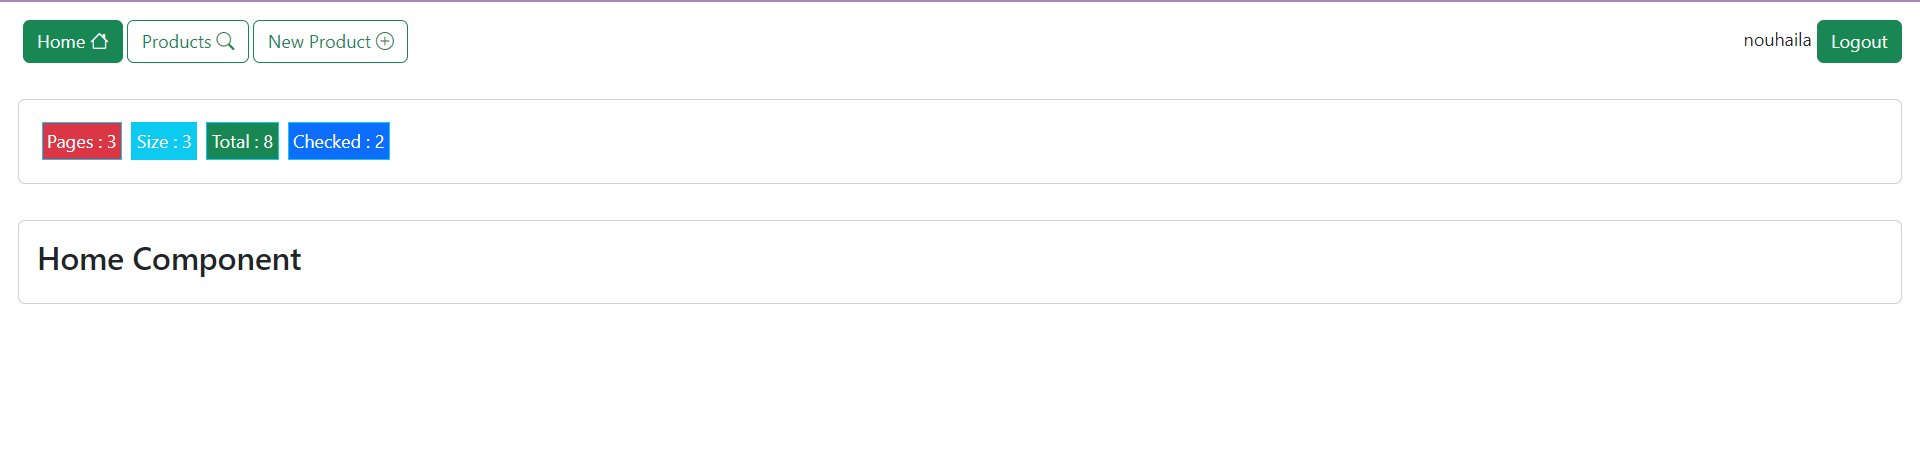
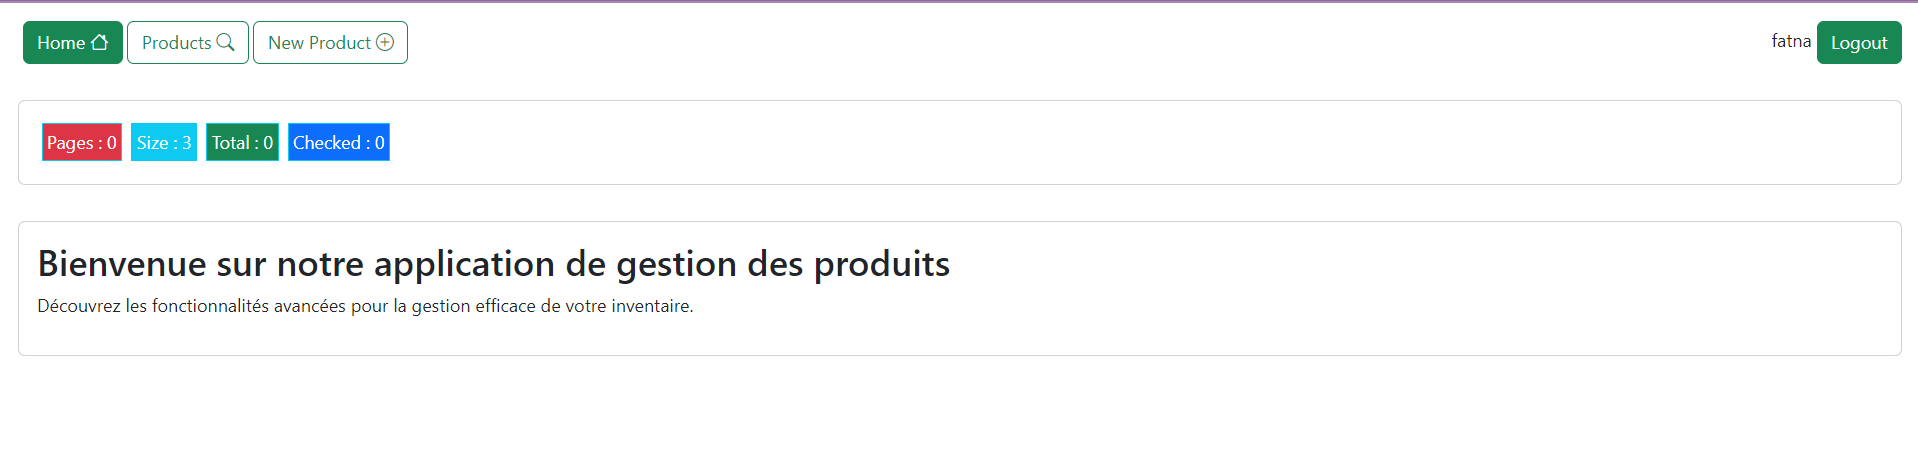
commit

diff --git a/src/app/home/home.component.html b/src/app/home/home.component.html
@@ -1,7 +1,9 @@
 <div class="p-3">
   <div class="card">
     <div class="card-body">
-      <h3>Home Component</h3>
+      <h2>Bienvenue sur notre application de gestion des produits</h2>
+      <p>Découvrez les fonctionnalités avancées pour la gestion efficace de votre inventaire.</p>
     </div>
   </div>
 </div>
+

diff --git a/README.md b/README.md
@@ -1,32 +1,243 @@
-<img src="angular/firstapp.png">
+Réalisé par : DANOUNI Nouhaila ---------------------------------------------------------------------------------------------------------</p>
 
-<img src="angular/boot_boot-icons.png">
-<p></p>
-<img src="angular/boot_css.png">
-<p></p>
-<img src="angular/boot_icons.png">
-<p></p>
-<img src="angular/json-server.png">
-<img src="angular/jsnserver.png">
-<img src="angular/run_json.png">
-<img src="angular/jsonproducts.png">
+<h1>TP N°5 : Utilisation d'Angular pour la Gestion des Produits - Rapport
+</h1>
+<h2>Introduction</h2>
+Dans ce rapport, nous exposons le processus de création d'une application dédiée à la gestion des produits, exploitant le framework Angular. L'essence de cette application demeure la mise à disposition d'une interface utilisateur contemporaine et réactive, simplifiant l'accès, la recherche, la modification et la suppression des produits. De plus, nous aborderons également la mise en place des mécanismes d'authentification et d'autorisation pour garantir des droits d'accès appropriés, renforçant ainsi la sécurité et la confidentialité au sein du système.
+<h2>Exploration d'Angular</h2>
+Cette application marque notre entrée dans l'univers d'Angular, et nous saisissons cette opportunité pour plonger dans les concepts fondamentaux, tels que les composants, les services, la gestion de l'état, et les gardiens de routage. Nous allons également explorer la façon dont Angular facilite la création d'une interface utilisateur réactive et dynamique, tout en optimisant la structure et la maintenance du code.
+<h2>Pourquoi Angular ?</h2>
+Angular a été sélectionné pour ce projet en raison de sa robustesse dans le développement d'applications web, offrant une structure modulaire, une liaison de données bidirectionnelle, et une architecture de type composant. Ces caractéristiques favorisent la création d'une application évolutive, facile à maintenir, et offrant une expérience utilisateur réactive. La documentation complète et la communauté active d'Angular ont également été des facteurs décisifs dans ce choix.
+<h2>Objectifs</h2>
+<p>Créer une application web basée sur Angular dédiée à la gestion des produits. Chaque produit est caractérisé par son identifiant, son nom, son prix et son status de check (checked or not). Le backend de l'application repose sur une REST API construite avec Json-Server.</p>
 
-<img src="angular/pas_localhost.png">
-<img src="angular/changePortError.png">
-encoder les mots de passe
-<img src="angular/jwt-decode.png">
-<img src="angular/jwt-decode.png">
+<p>L'application doit fournir les fonctionnalités suivantes :</p>
 
-<img src="angular/login.png">
-<img src="angular/home.png">
-<img src="angular/products.png">
-<img src="angular/new.png">
-<img src="angular/edit.png">
-utiliser les guards pour protéger les routes
+<ul>
+    <li>Afficher les produits</li>
+    <li>Chercher les produits</li>
+    <li>Faire la pagination</li>
+    <li>Supprimer un produit</li>
+    <li>Éditer un produit</li>
+    <li>Mettre à jour un produit</li>
+    <li>Faire l'authentification et protéger les routes</li>
+</ul>
+
+<h2>Architecture de l'Application</h2>
+<p>
+L'architecture de l'application Angular est structurée de manière modulaire, comprenant divers composants, services et guards.</p>
+<img src="angular/arch.png">
+<h3>1. Composants Principaux</h3>
+<pre>
+// Générer un Composant
+ng g c nom-composant
+</pre>
+<ul>
+    <li><strong>NavbarComponent :</strong> La barre de navigation contenant des liens vers différentes sections de
+        l'application et des actions utilisateur telles que la connexion et la déconnexion.</li>
+    <li><strong>ProductsComponent :</strong> Affiche la liste paginée des produits avec des fonctionnalités de recherche,
+        suppression, édition et mise à jour.</li>
+    <li><strong>NewProductComponent :</strong> Permet à l'utilisateur d'ajouter un nouveau produit à la liste.</li>
+    <li><strong>EditProductComponent :</strong> Fournit un formulaire d'édition pour mettre à jour les détails d'un produit
+        existant.</li>
+    <li><strong>LoginComponent :</strong> Gère le processus d'authentification de l'utilisateur.</li>
+</ul>
+
+<h3>2. Services</h3>
+<pre>
+// Générer un service
+ng g s nom-service
+</pre>
+<ul>
+    <li><strong>AppStateService :</strong> Gère l'état global de l'application, stockant des informations sur les produits
+        et l'état d'authentification.</li>
+    <li><strong>AuthService :</strong> Gère l'authentification des utilisateurs en vérifiant les informations
+        d'identification et en stockant l'état d'authentification.</li>
+    <li><strong>ProductService :</strong> Interagit avec la REST API pour effectuer des opérations liées aux produits
+        telles que la récupération, la création, la mise à jour et la suppression.</li>
+    <li><strong>LoadingService :</strong> Gère l'affichage d'un indicateur de chargement pour informer l'utilisateur lors
+        du chargement de données.</li>
+</ul>
+
+<h3>3. Guards</h3>
+<pre>
+// Générer un Guard
+ng g g nom-guard
+</pre>
 <img src="angular/guards.png">
 <img src="angular/two_guards.png">
+<ul>
+    <li><strong>AuthenticationGuard :</strong> Protège les routes nécessitant une authentification. Redirige les
+        utilisateurs non authentifiés vers la page de connexion.</li>
+    <li><strong>AuthorizationGuard :</strong> Protège les routes en fonction des rôles de l'utilisateur. Redirige les
+        utilisateurs non autorisés vers une page indiquant qu'ils ne sont pas autorisés.</li>
+</ul>
 <img src="angular/use_guards.png">
+
+<h3>4. Interceptor</h3>
+<pre>
+// Générer un intercepteur
+ng g interceptor nom-intercepteur
+</pre>
+<ul>
+    <li><strong>AppHttpInterceptor :</strong> Intercepte les requêtes HTTP pour ajouter un en-tête d'autorisation avant
+        qu'elles ne soient envoyées au serveur. Il gère également l'affichage d'un indicateur de chargement pendant les
+        requêtes.</li>
+</ul>
+
+<h2>Data Binding dans l'Application Angular</h2>
+<p>
+    L'un des concepts clés exploités dans l'architecture de notre application est le <strong>data binding</strong>. Le data binding
+    d'Angular facilite la synchronisation efficace des données entre les composants et l'interface utilisateur. Nous utilisons
+    deux types principaux de data binding :
+</p>
+
+<ul>
+    <li><strong>Data Binding Unidirectionnel :</strong> Utilisé pour afficher des données du modèle vers l'interface utilisateur. Par exemple, dans le composant
+        <em>ProductsComponent</em>, le data binding unidirectionnel est utilisé pour afficher la liste paginée des produits.</li>
+    <li><strong>Data Binding Bidirectionnel :</strong> Employé pour synchroniser les modifications entre l'interface utilisateur et le modèle. Cela est particulièrement
+        utile dans les composants tels que <em>NewProductComponent</em> et <em>EditProductComponent</em>, où les utilisateurs peuvent saisir
+        et modifier des données.</li>
+</ul>
+
+<p>
+    En utilisant le data binding, notre application parvient à maintenir une cohérence fluide entre les différentes parties,
+    offrant ainsi une expérience utilisateur dynamique et réactive.
+</p>
+<img src="angular/data_binding.png">
+
+<h2>Observables dans l'Application Angular</h2>
+<p>
+    L'utilisation d'observables joue un rôle essentiel dans notre application Angular, offrant une manière puissante de gérer
+    les flux de données asynchrones. Les observables sont employés dans divers aspects de l'application, notamment pour gérer
+    les réponses des requêtes HTTP vers le backend de l'API REST et pour mettre en œuvre des fonctionnalités réactives telles
+    que la mise à jour dynamique de l'interface utilisateur en temps réel.
+</p>
+
+<p>
+    En exploitant les observables, notre application assure une gestion efficace des événements asynchrones, améliorant ainsi
+    la réactivité globale et offrant une expérience utilisateur plus fluide.
+</p>
+<img src="angular/observable.png">
+<h2>Fonctionnalités</h2>
+
+<h3>1. Intégrer Bootstrap dans le projet</h3>
+<img src="angular/boot_css.png">
+<img src="angular/boot_icons.png">
+<h3>2. Affichage des données statiques</h3>
+<p>Dans une première phase, les données sont présentées à l'aide d'une base de données statique, affichée sous forme de tableau.</p>
+<img src="angular/table_db_statique.PNG" alt="Capture de la table de la base de données statique">
+
+<h3>3. Intégration d'Angular avec une REST API basée sur Json-Server</h3>
+
+<p>L'intégration d'une REST API pour notre application Angular est simplifiée grâce à l'utilisation de JSON Server.</p>
+
+<h4>3.1 Installation de JSON Server</h4>
+<p>Tout d'abord, nous devons nous assurer d'avoir JSON Server installé globalement en exécutant la commande suivante dans le terminal :</p>
+<pre><code>npm install -g json-server</code></pre>
+<img src="angular/json-server.png">
+<img src="angular/jsnserver.png">
+
+<h4>3.2 Création du fichier de données (db.json)</h4>
+<p>Ensuite, nous créons un fichier de données nommé <strong>db.json</strong> contenant les informations sur nos produits ou d'autres données nécessaires. Nous plaçons ce fichier dans un dossier appelé <strong>data</strong>.</p>
+<pre><code>// db.json
+{
+    "products": [
+        // ... données des produits
+    ],
+    "users": [
+        // ... données des utilisateurs
+    ]
+}</code></pre>
+<img src="angular/products.png">
+<img src="angular/users.png">
+
+<h4>3.3 Lancement de JSON Server</h4>
+<p>Utilisons la commande suivante pour lancer JSON Server en spécifiant le chemin vers notre fichier <strong>db.json</strong> et le port (8089) :</p>
+<pre><code>json-server -w data/db.json -p 8089</code></pre>
+<img src="angular/run_json.png">
+or
+<pre><code>json-server -w data/db.json -p 8089 -H 0.0.0.0</code></pre>
+<img src="angular/pas_localhost.png">
+<ul>
+<li>L'ajout de l'option -H 0.0.0.0 permet au serveur JSON d'écouter sur toutes les interfaces réseau disponibles. Cela signifie que le serveur JSON peut être accédé depuis d'autres machines du même réseau. C'est utile lorsque vous souhaitez tester votre application sur plusieurs appareils ou partager votre application avec d'autres personnes.
+</li>
+<li>L'option <strong>-w</strong> est utilisée pour activer le mode de surveillance des fichiers, ce qui est utile lorsque nous souhaitons que JSON Server mette à jour automatiquement les données en fonction des modifications apportées au fichier db.json. Cela démarrera notre serveur API REST sur le port 8089. Nous pouvons personnaliser le port selon nos besoins.</li>
+</ul>
+
+<h4>3.4 Communication avec le Backend via des Requêtes HTTP</h4>
+<p>
+    Nous sommes désormais en mesure d'établir des connexions HTTP avec notre backend pour récupérer des données. N'oublions pas d'intégrer le module correspondant
+    dans le fichier <strong>app.module.ts</strong> de notre application Angular.
+</p>
+
+<img src="angular/app_module.png">
+
+<h2>Captures d'Écran des Pages avec Gestion des Droits d'Accès</h2>
+
+<h3>Génération des Tokens</h3>
+<img src="angular/jwt-decode.png">
+
+<h4>Administrateur</h4>
+<img src="angular/admin.PNG">
+
+<h4>Utilisateur</h4>
+<img src="angular/user.PNG">
+
+<p>Ensuite, effectuons l'installation de l'outil Base64 Helper.</p>
+<img src="angular/base64.jpeg">
+
+<p>Par la suite, exploitons le Base64 Helper pour encoder les mots de passe.</p>
+<img src="angular/base1.jpeg">
+<img src="angular/base2.jpeg">
+
+<h2>Pages Accessibles aux Utilisateurs</h2>
+
+<h4>Affichage de la Page d'Authentification</h4>
+<img src="angular/login.png">
+
+<h4>Affichage de la Page d'Accueil</h4>
+<img src="angular/home.png">
+
+<h4>Affichage des Produits</h4>
+<img src="angular/user_prod.png">
+
+<h4>Recherche des Produits</h4>
+<img src="angular/search_user.PNG">
+
+<h4>Ajout d'un Produit</h4>
+<img src="angular/not.png">
 <img src="angular/notAuthorized.png">
+
+<h2>Pages Accessibles aux Administrateurs</h2>
+<h4>Affichage de la Page d'Authentification</h4>
+<img src="angular/login.png">
+
+<h4>Affichage de la Page d'Accueil</h4>
+<img src="angular/home.png">
+
+<h4>Affichage des Produits</h4>
+<img src="angular/admin_prod.png">
+
+<h4>Recherche des Produits</h4>
+<img src="angular/admin_search.png">
+
+<h4>Ajout d'un Produit</h4>
+<img src="angular/new.png">
+<h4>Modification d'un Produit</h4>
+<img src="angular/edit.png">
+
+<h4>Check & Suppression d'un Produit</h4>
+<img src="angular/supp.png">
+
+<h2>Conclusion du TP</h2>
+<p>
+  En résumé, ce projet a permis la création d'une application Angular dédiée à la gestion des produits. Les fonctionnalités clés mises en œuvre, telles que l'affichage, la recherche, la pagination, la suppression, l'édition, la mise à jour, l'authentification avec protection des routes, ainsi que la gestion des droits d'accès, fournissent une expérience utilisateur complète. Grâce à une architecture modulaire bien conçue et des services efficaces, l'application garantit une maintenance simplifiée et une évolutivité adaptée à un environnement de développement pratique.
+</p>
+
+
+
+
 
 
 
